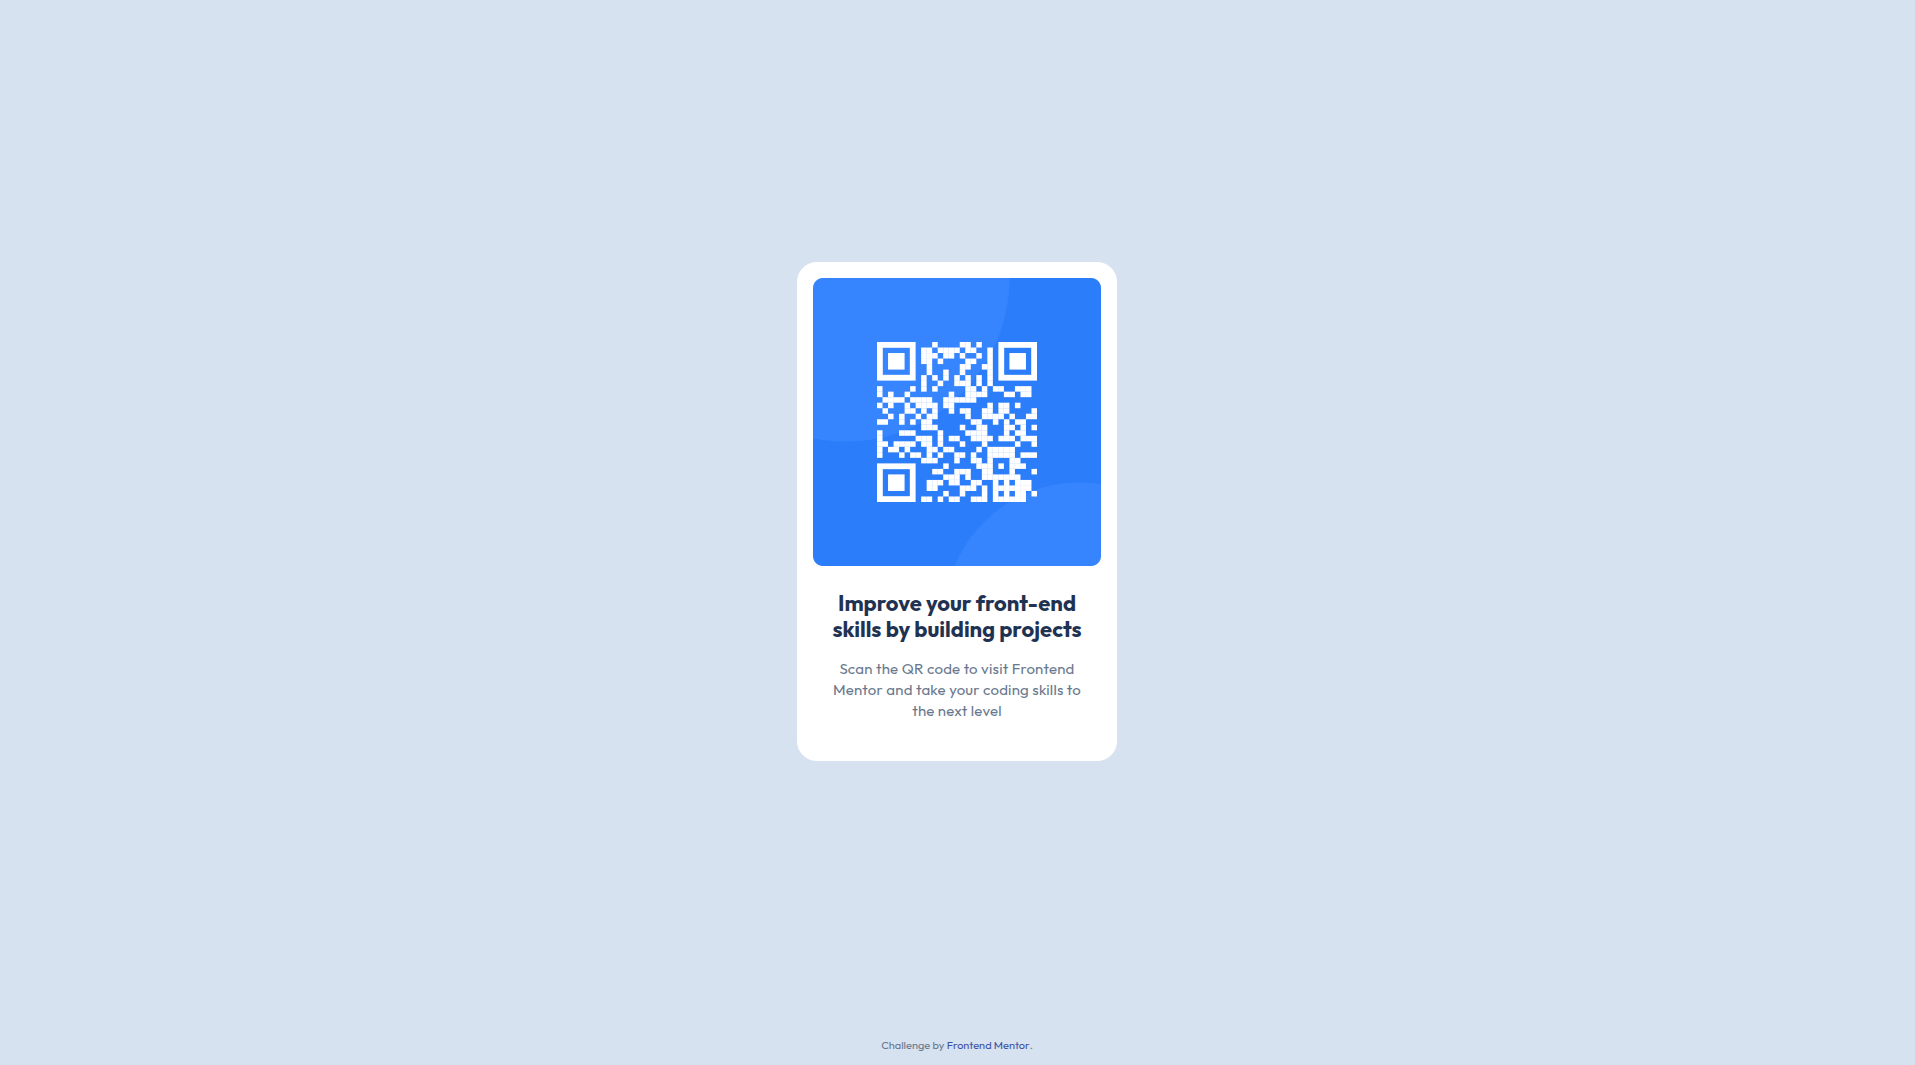
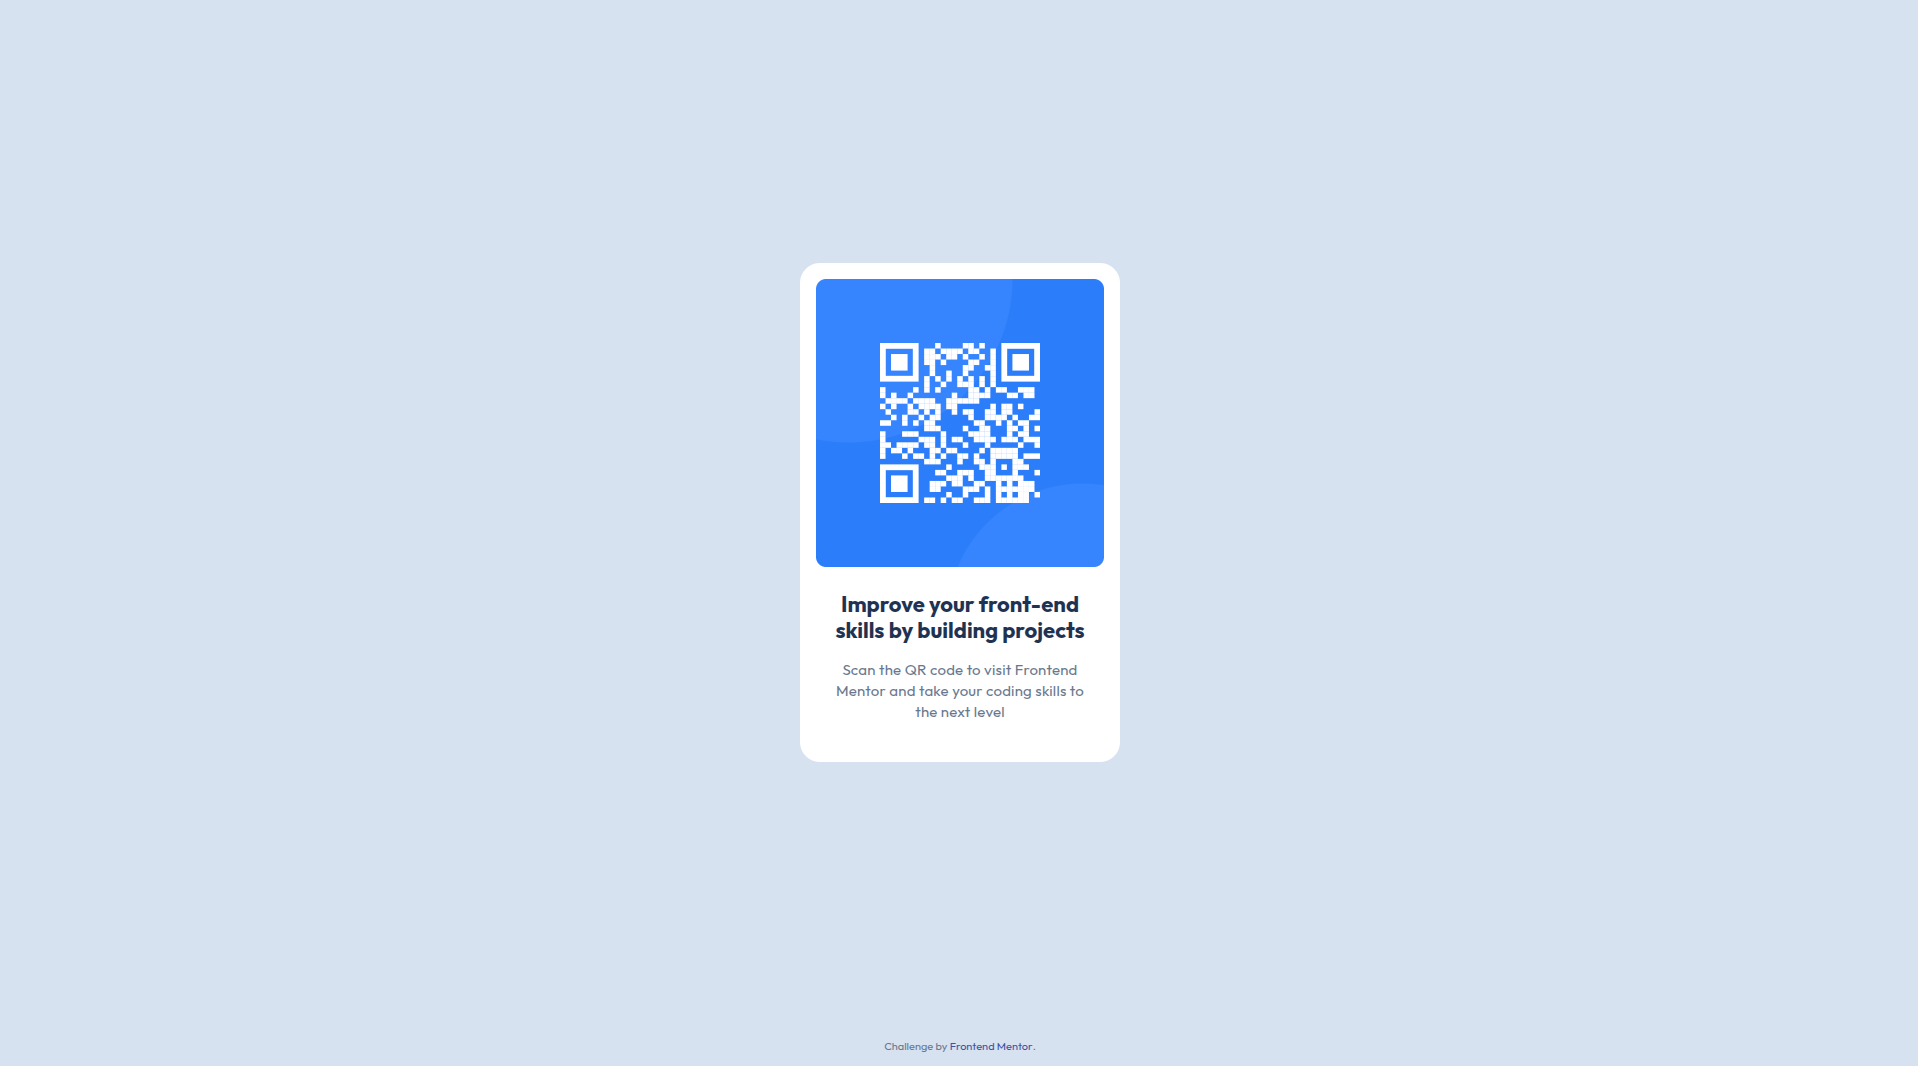
Make some changes

Changed region(s): [[0.4313, 0.5577, 0.5854, 0.6817], [0.4621, 0.3099, 0.5546, 0.4958], [0.4621, 0.9606, 0.5238, 0.9915]]

diff --git a/index.html b/index.html
@@ -11,27 +11,28 @@
 	</head>
 	<body>
 		<div class="wrapper">
-			<div class="card">
-				<div class="card__body">
-					<div class="card__image"><img src="images/image-qr-code.png" alt="QR-code image"></div>
-					<div class="card__content">
-						<h2 class="card__title">
-							Improve your front-end skills by building projects
-
-						</h2>
-						<div class="card__text">
-							<p>
-								Scan the QR code to visit Frontend Mentor and take your coding skills to the next level
-							</p>
+			<main>
+				<div class="card">
+					<div class="card__body">
+						<div class="card__image"><img src="images/image-qr-code.png" alt="QR-code image"></div>
+						<div class="card__content">
+							<h1 class="card__title">
+								Improve your front-end skills by building projects
+							</h1>
+							<div class="card__text">
+								<p>
+									Scan the QR code to visit Frontend Mentor and take your coding skills to the next level
+								</p>
+							</div>
 						</div>
 					</div>
 				</div>
-			</div>
-			<div class="attribution">
+			</main>
+			<footer class="attribution">
 				<div class="attribution__content">
 					Challenge by <a href="https://www.frontendmentor.io?ref=challenge" target="_blank">Frontend Mentor</a>.
 				</div>
-			</div>
+			</footer>
 		</div>
 
 	</body>

diff --git a/styles/styles.css b/styles/styles.css
@@ -55,8 +55,11 @@ body {
 	align-items: center;
 	padding-inline: 15px;
 }
-.card {
+main {
+	/* flex: 1 1 auto; */
 	margin: auto;
+}
+.card {
 	max-width: 320px;
 }
 .card__body {
